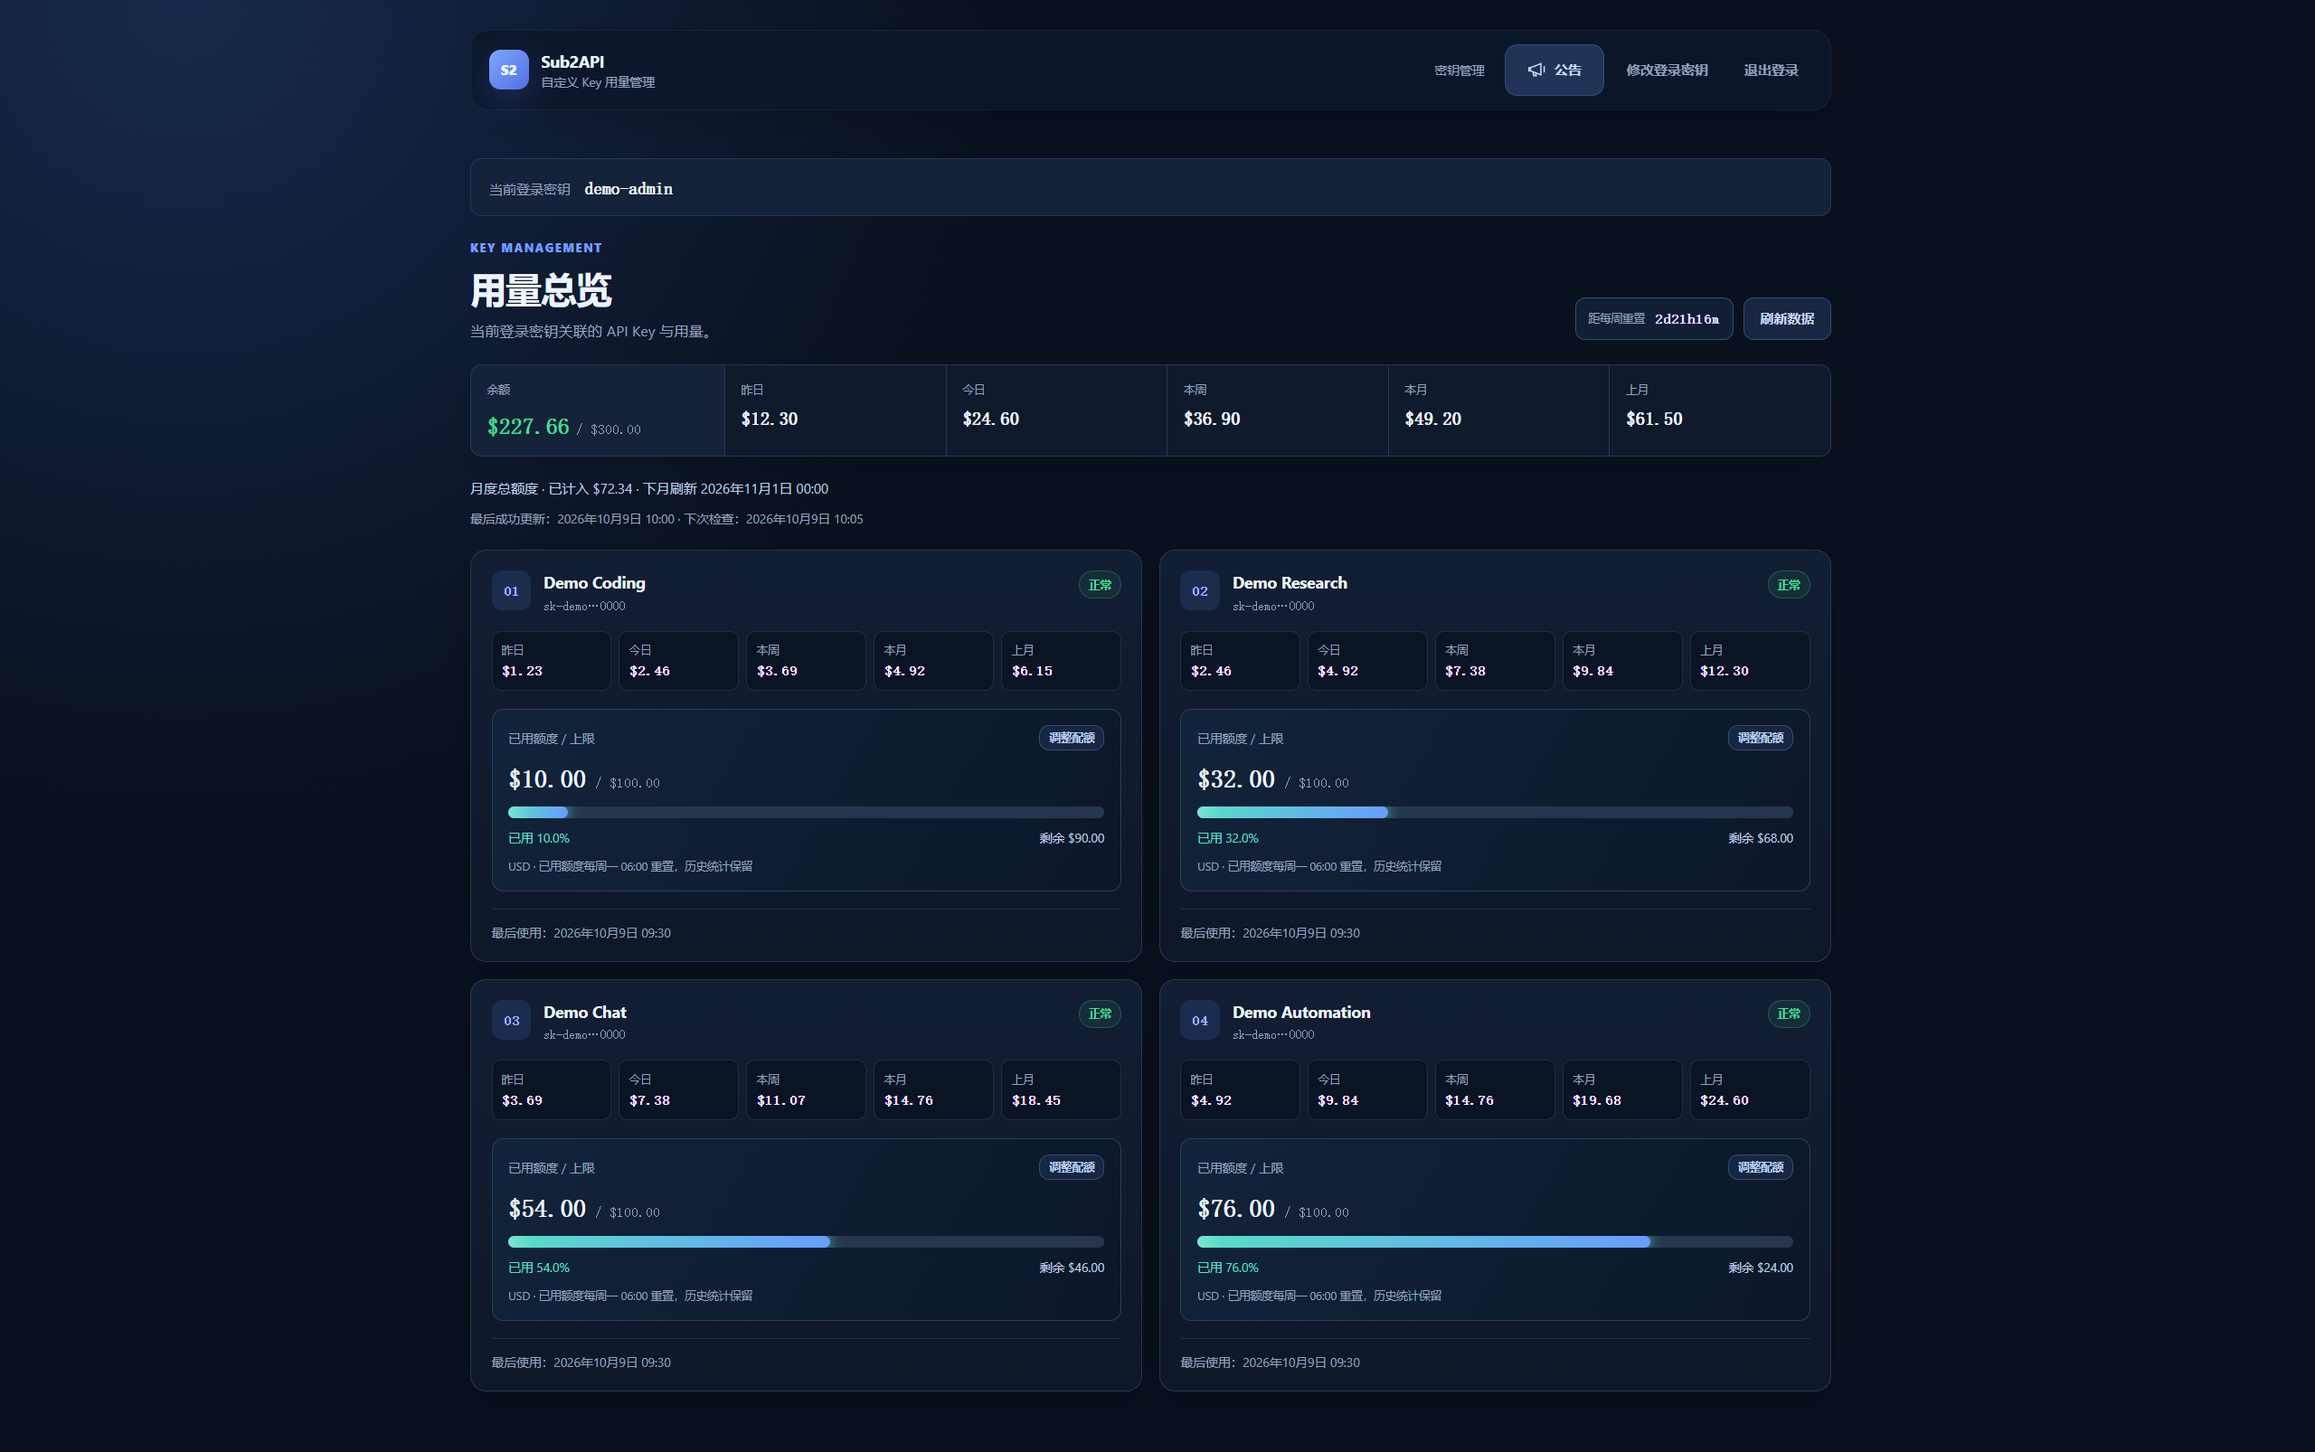
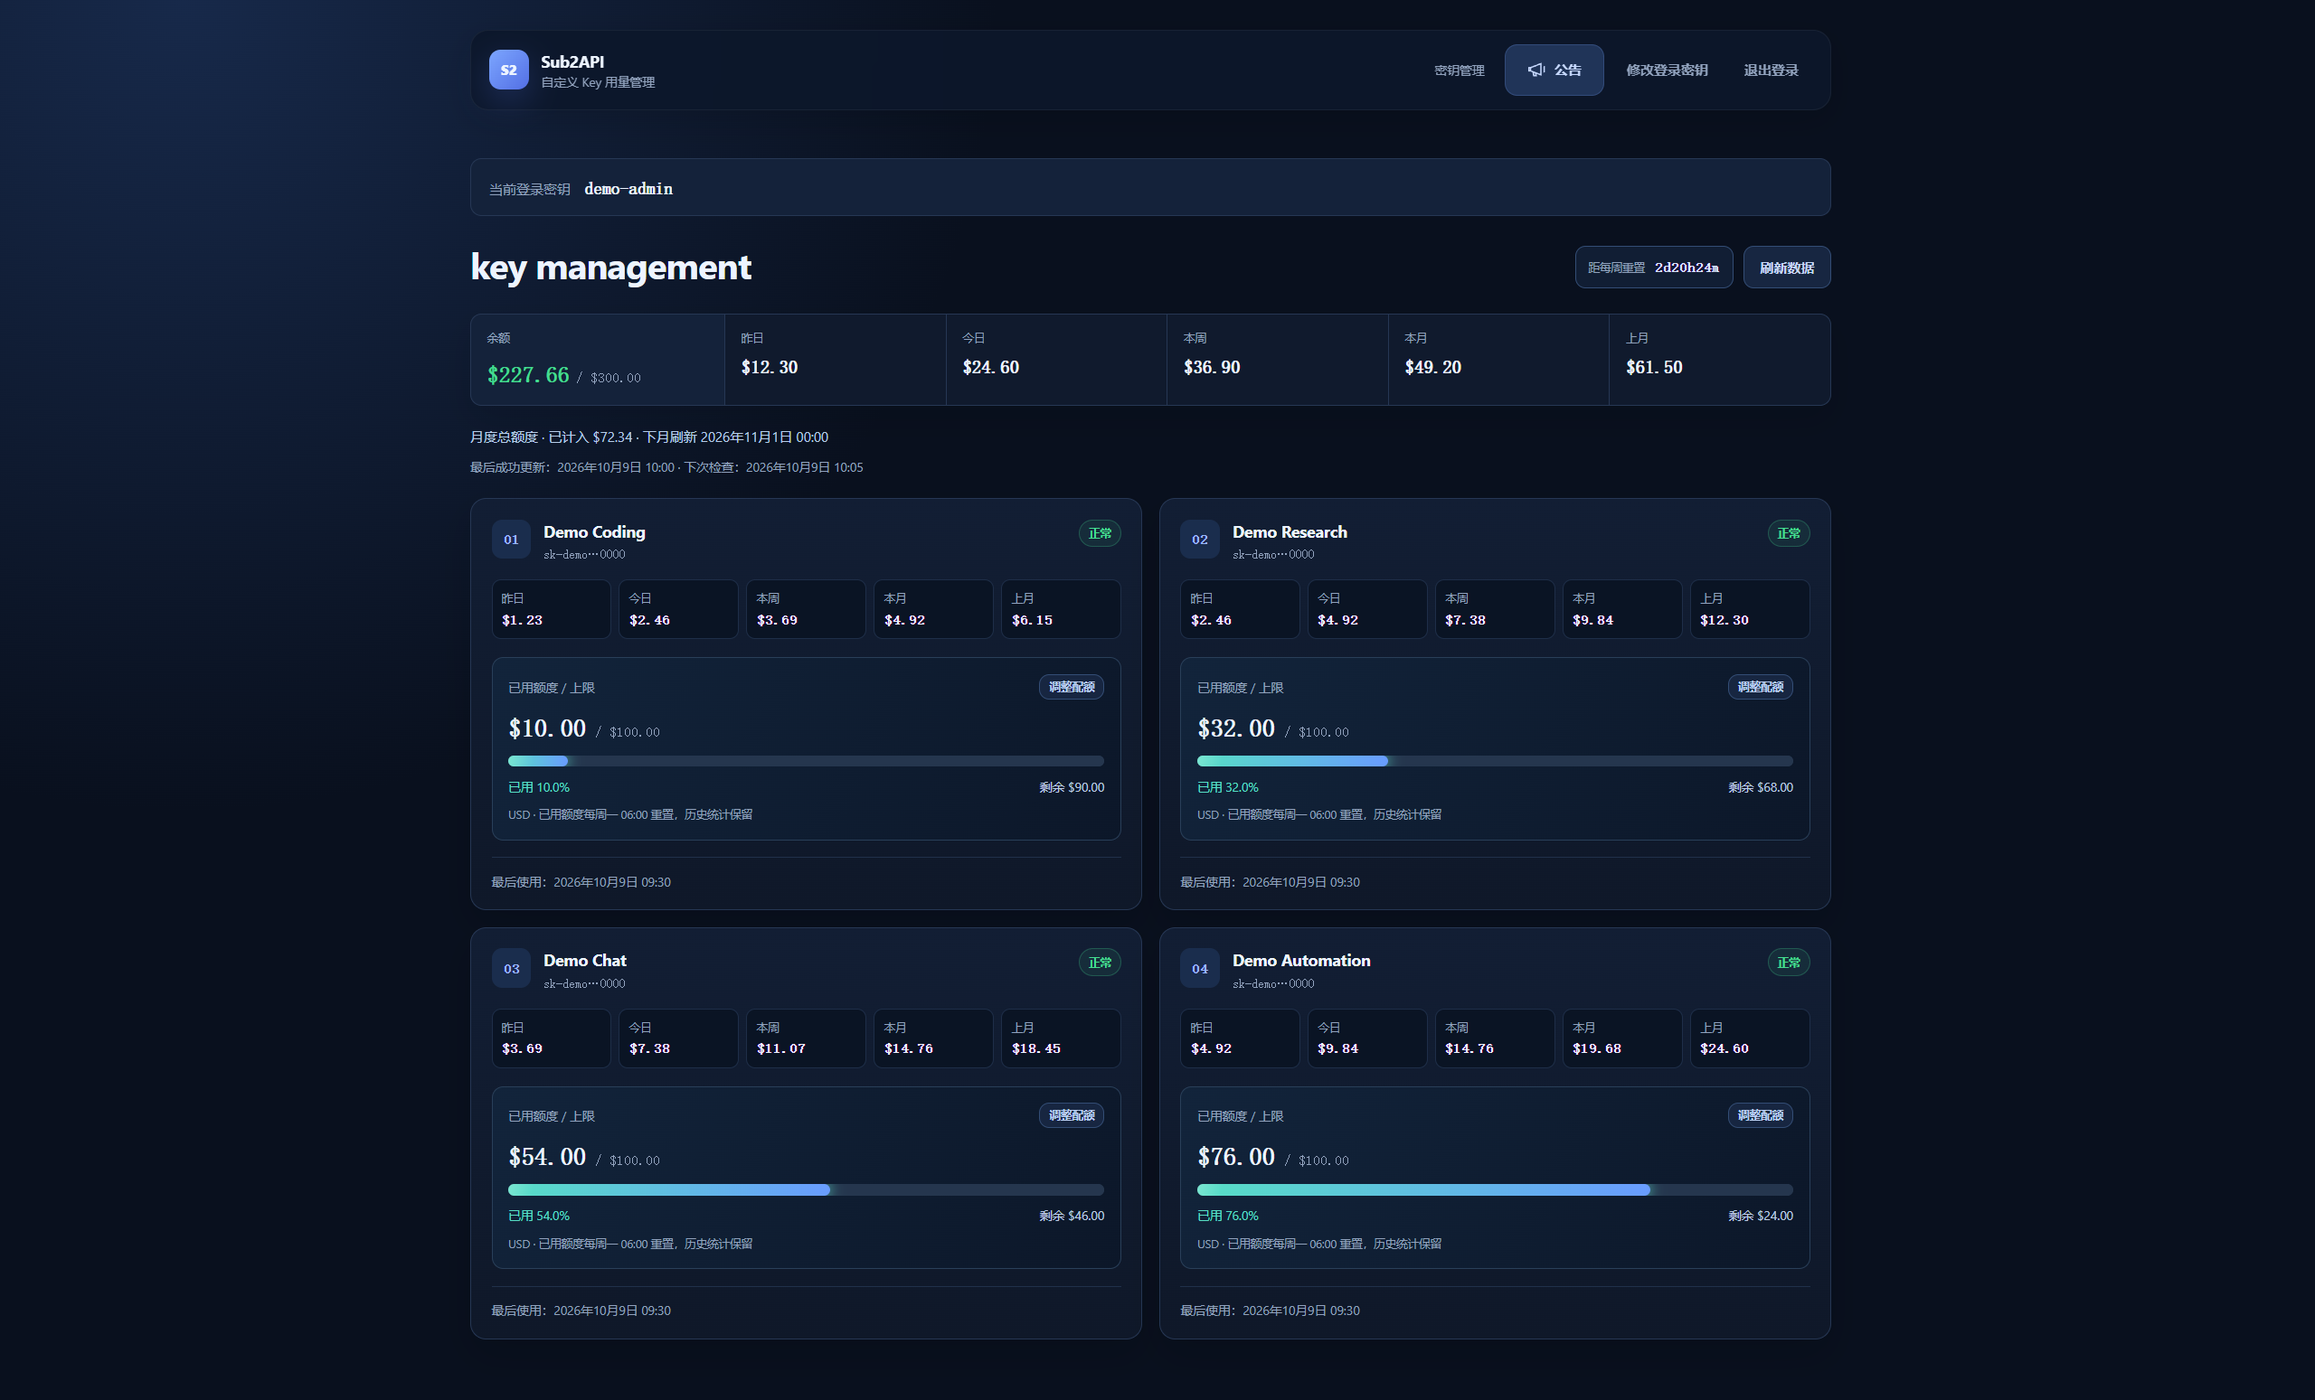
fix: simplify key management heading

diff --git a/public/index.html b/public/index.html
@@ -4,10 +4,10 @@
   <meta charset="UTF-8">
   <meta name="viewport" content="width=device-width,initial-scale=1">
   <title>Sub2API Key 用量管理</title>
-  <link rel="stylesheet" href="/styles.css?v=20261009-1">
-  <link rel="stylesheet" href="/overrides.css?v=20261009-1">
+  <link rel="stylesheet" href="/styles.css?v=20261009-2">
+  <link rel="stylesheet" href="/overrides.css?v=20261009-2">
   <script src="/vendor/anime.umd.min.js?v=4.5.0" defer></script>
-  <script src="/app.js?v=20261009-1" defer></script>
+  <script src="/app.js?v=20261009-2" defer></script>
 </head>
 <body>
   <div class="session-loading" id="sessionLoading" role="status"><div class="brand-mark">S2</div><span>正在加载…</span></div>
@@ -56,7 +56,7 @@
     <section class="access-current" id="currentAccess" aria-live="polite"></section>
 
     <section class="hero">
-      <div><p class="eyebrow">KEY MANAGEMENT</p><h1>用量总览</h1><p>当前登录密钥关联的 API Key 与用量。</p></div>
+      <div><h1>key management</h1></div>
       <div class="hero-actions"><div class="schedule-pill"><span>距每周重置</span><strong id="resetCountdown">--d--h--m</strong></div><button class="secondary" id="refreshButton">刷新数据</button><button class="primary hidden" id="openAddButton">＋ 添加自定义 Key</button></div>
     </section>
 

diff --git a/public/overrides.css b/public/overrides.css
@@ -8,6 +8,7 @@ html { scrollbar-gutter:stable; }
   html { font-size:clamp(20px,calc(12px + .3125vw),24px); }
 }
 .role-label { font-size:0.6875rem; color:var(--muted); }
+.hero h1 { margin-bottom:0; }
 .session-loading { min-height:100dvh; display:flex; flex-direction:column; align-items:center; justify-content:center; gap:1.125rem; color:var(--muted); font-size:0.75rem; }
 .login-screen { min-height:100dvh; background:radial-gradient(ellipse at 50% 28%,#304b7c26,transparent 65%); }
 .login-card { box-shadow:0 1.75rem 5.625rem #0006,0 0 0 1px #ffffff03; }

diff --git a/docs/PROJECT_HANDOFF.md b/docs/PROJECT_HANDOFF.md
@@ -6,8 +6,9 @@
 
 | 项目 | 状态 |
 | --- | --- |
-| 大屏适配 | 2026-10-09 用户确认保留 API Key 双列、加宽并同步放大方案。已完成流式内容区及阅读尺寸：2560×1440 对应 1560px 内容区 / 20px 根字号，3840×2160 对应 2200px / 24px；登录、公告、设置及七天预览一同适配，静态资源版本为 `20261009-1`。81 项测试、语法及差异检查通过；本地纯假数据浏览器检查 1080p、2K、4K、手机与 125% / 150% / 200% 缩放等效视口，无横向溢出、金额截断或脚本错误。1080p 与手机关键区域几何尺寸逐项与修改前一致；固定预览跨分辨率调整、公告收缩及减少动画模式通过。截图 `docs/screenshots/2026-10-09-large-screen-*.png`，方案和计划在 `docs/superpowers/`。本次代码及交接记录同步 GitHub main，尚未部署 NAS。 |
-| 本轮 NAS 核对 | 2026-10-09 Windows 主机此前尝试局域网及域名 SSH，均在登录前被关闭；随后在 Mac 上通过域名 SSH 实际复核成功。NAS 仍为 `4db3c6c`、容器 healthy，自 10-08 17:40:18 启动后未再重启；两个代理仍 exited。Mac 已拉取 GitHub main 的大屏适配提交 `15455e3`，该功能未部署 NAS；本轮未改生产配置或代码。 |
+| 大屏适配 | 2026-10-09 用户确认保留 API Key 双列、加宽并同步放大方案。已完成流式内容区及阅读尺寸：2560×1440 对应 1560px 内容区 / 20px 根字号，3840×2160 对应 2200px / 24px；登录、公告、设置及七天预览一同适配，静态资源版本为 `20261009-2`。81 项测试、语法及差异检查通过；本地纯假数据浏览器检查 1080p、2K、4K、手机与 125% / 150% / 200% 缩放等效视口，无横向溢出、金额截断或脚本错误。1080p 与手机关键区域几何尺寸逐项与修改前一致；固定预览跨分辨率调整、公告收缩及减少动画模式通过。截图 `docs/screenshots/2026-10-09-large-screen-*.png`，方案和计划在 `docs/superpowers/`。本次代码及交接记录同步 GitHub main，尚未部署 NAS。 |
+| 页面标题 | 2026-10-09 按用户要求将用量区域标题改为 `key management`，删除上方重复的英文小标题和下方显而易见的功能说明，清除标题多余底部间距。2K / 4K / 手机及两种角色假数据检查通过，更新对应截图；81 项测试、语法与差异检查通过。简洁标题偏好已写入 AGENTS.md，代码与记录同步 main，未部署。 |
+| 本轮 NAS 核对 | 2026-10-09 Windows 主机此前尝试局域网及域名 SSH，均在登录前被关闭；随后在 Mac 上通过域名 SSH 实际复核成功。NAS 仍为 `4db3c6c`、容器 healthy，自 10-08 17:40:18 启动后未再重启；两个代理仍 exited。Mac 已拉取 GitHub main 的大屏适配提交 `15455e3`，该功能未部署 NAS；本轮未改生产配置或代码。随后此 Windows 主机亦通过域名 SSH 只读确认相同标记及 running / healthy，未部署标题调整。 |
 | 额度保存排查 | 2026-10-09 用户确认在 NAS 正式页面把目标 MISE Key 从 50 调为 50.01，点击保存没有错误提示但看不到变化。09:27 只读上游核验真实额度已是 50.01，NAS 缓存仍是 50；另一个 Key 的上游额度/状态也与旧缓存不一致。MISE 09:19:20 成功、09:23:39 再次同步失败；三个账号均无 budget.blocked 或 paused，不能归因本地副本写保护、额度用尽或恢复规则。09:25 三轮 MISE 读取全部 200；09:26–09:27 用内存副本完整重放三个账号同步，包括体验账号分页明细，全部成功，全程阻止上游写入。纯假数据复现 `quota()` 写入成功后 `sync()` 失败仍正常返回旧缓存，解释保存生效但页面旧值；当次底层网络原因未被生产日志保存。09:30:07 NAS 自动同步成功、error=null，目标缓存已更新为 50.01；体验账号 09:30:05 同步成功，另一处额度/状态差异也消除。未重启、部署或再次修改真实额度；下一步用户刷新正式网页核验，后续代码修复应区分保存结果与刷新结果，并补充等待及底层错误记录。 |
 | 用量同步排查 | 2026-10-08 22:29 MISE 正式缓存已恢复成功同步，`lastSuccessAt=2026-10-08T14:29:47.132Z`、error=null，账号/Key/额度/公告设置核验保留。按用户要求从运行中 NAS 容器拉取 `/app` 和独立业务快照，在本地建立只读复刻；15 个源码/静态文件与 `4db3c6c` 全部一致，运行时同为 Node.js 24.19.0。原生请求版 `http://127.0.0.1:3111/` 与 curl 传输对照版 `http://127.0.0.1:3112/` 均成功同步 MISE 3 个 Key：登录、列表、每日用量接口均200，桌面/手机页面检查无脚本错误。本次未发现程序更新或接口不兼容；NAS 同时段只读接口亦成功，正常刷新随后恢复，但此前间歇失败根因仍未确证，不能直接归功停代理。两个代理 `qwrt`/`mihomo-lan-proxy` 继续按用户要求停用；生产代码/上游地址未改。临时副本 `/Users/sun/Documents/ChatGPT/FNNas/work/key-manager-local-replica-20261008` 继续运行，仅监听本机，禁用自动调度并阻止上游写入；源码、凭据、业务快照、截图仅在私有本地目录，不提交Git。恢复复核：管理器自17:40未再重启；两代理22:14停后仍失败过，22:26左右读取恢复，22:29是正常手动刷新成功。随后NAS主页3次200、重新登录/列表成功；能确定连接恢复，不能唯一归因停代理。其他两个账号仍旧缓存，本轮未刷新。下一步：用户查看本地与NAS页面；如再次失败，再依据具体连接记录排查网络。停代理对照 `/home/Sun/sub2api-key-manager-releases/proxy-stop-check-20261008-221430`，地址切换备份 `/home/Sun/sub2api-key-manager-backups/upstream-url-20261008-174007`。 |
 | 源码 | 私有仓库 `allin75/sub2api-key-manager`，以 `origin/main` 为同步源。两台电脑应各自克隆或拉取，不复制工作目录。 |
@@ -19,11 +20,13 @@
 | 回退资料 | 最新部署前备份在 `/home/Sun/sub2api-key-manager-backups/20260930-154120`：`.env`、`source-config.tar.gz`、`data.tar.gz`、原源码 `source/` 和旧镜像标识均保留。上传归档、部署脚本、构建/部署日志、状态校验摘要及其他容器对照记录在 `/home/Sun/sub2api-key-manager-releases/4db3c6c`，有 `deploy.ok` 标记。旧镜像额外保留为 `sub2api-key-manager:rollback-196cd6c-20260930`，更早备份与回退镜像未清理。 |
 | 验证 | `node --test` 79 项通过，逐文件语法检查与 `git diff --check` 通过。覆盖发布/删除权限、CSRF、账号隔离、确认幂等、删除与确认并发、重命名与重启持久化、作用域预算写入、失败保留草稿与重复提交保护、账号切换后的异步清理。本地假数据桌面 1440×1000、手机/窄屏 390×844 检查发布、实时接收、多条逐一确认、历史重看、删除同步和文本转义通过；确认后收缩逐帧宽度与入口横向变化 0px，图标持续淡入，无动画层残留，减少动画模式通过。新截图在 `docs/screenshots/2026-09-30-targeted-notice-*.png`。 |
 | 上线核验 | 新镜像健康，NAS 3100 端口返回与发布源码完全一致的页面、脚本、两份样式和本地动画库，页面缓存版本为 `20260930-5`；未登录 `/api/session` 和 `/api/notices` 均为 401，运行日志无请求或调度错误。原 `.env` 未变，原数据卷 `sub2api-key-manager_key-manager-data` 未替换；与部署前备份核对，3 个账号的身份、登录密钥、历史密钥、12 个 Key 与归属、额度类型与上限、刷新开关、奖励定义及公告确认记录保持一致，原定向公告数为 0，未发送生产测试公告。其他 16 个容器部署前后及再次核验的 ID、启动时间、重启次数与运行状态完全一致。未运行整机重启、Docker 服务重启、其他项目 Compose 或任何卷删除命令。 |
-| 下一步 | 另一台电脑拉取 GitHub main 查看大屏适配及截图。恢复 SSH 连接并取得部署指令后，先核对 NAS 实际提交与状态，再按原定向更新流程备份、部署并验证；源码推送不代表上线。本轮浏览器测试服务已关闭，假数据检查材料保留于本机忽略目录 `.playwright-mcp/`。10-08 的本地复刻状态需在原电脑另行核对。 |
+| 下一步 | 另一台电脑拉取 GitHub main 查看大屏适配及截图。取得部署指令后，再核对 NAS 实际提交与状态，再按原定向更新流程备份、部署并验证；源码推送不代表上线。本轮浏览器测试服务已关闭，假数据检查材料保留于本机忽略目录 `.playwright-mcp/`。10-08 的本地复刻状态需在原电脑另行核对。 |
 
 这份文档是时间点记录。`v1.2.0` 的固定公告交互和卡片定向公告均已部署并核验 NAS，实际标记为 `4db3c6c`，容器健康。部署后的文档提交无需重新部署；今后仍需核对实际标记，不能仅凭 GitHub 最新源码推断部署状态。
 
 ## 已完成记录
+
+- 2026-10-09：按用户反馈精简标题为 `key management`，删除重复英文眉题与标题下说明，记录简洁文案偏好；假数据 2K/4K/手机、普通管理员/超级管理员标题与布局检查通过，截图更新，81 项测试及语法/差异检查通过。域名 SSH 恢复后只读确认 NAS 标记仍为 `4db3c6c`、容器 running / healthy；提交并推送代码和交接记录，未部署。
 
 - 2026-10-09（Mac）：拉取 GitHub main 的 `15455e3`，域名 SSH 实测可用，NAS 仍运行 `4db3c6c` 且 healthy，两个代理继续停用。针对用户“正式页面保存配额无提示、数值未变”核对：目标上游配额已为用户确认的 50.01，缓存仍为 50，MISE 在 09:19 成功后 09:23 同步失败。三轮 MISE 只读请求和三个账号完整内存同步重放均成功，无 401/403；纯假数据复现保存成功后的同步异常被吞掉、正常返回旧缓存。未修改真实 Key/额度、生产配置或部署，本地复刻仍保留只读保护。随后 NAS 自动调度在 09:30:05/09:30:07 完成体验账号/MISE 同步，错误清除，目标缓存已更新为 50.01；纯假数据复现通过。当次底层网络原因未被日志保存，保留这一限制；下一步用户刷新正式页面核验。
 

diff --git a/AGENTS.md b/AGENTS.md
@@ -29,6 +29,8 @@ Use ESM JavaScript, two-space indentation, semicolons, and single quotes. Prefer
 
 Keep UI state in `public/app.js`; render dynamic text with `escapeHtml`. Use scoped CSS names such as `quota-warning`, never generic state names like `warning` that can collide with shared styles. There is no formatter or linter configured; run `node --check src/*.js public/app.js` before committing UI or server changes.
 
+Use concise UI headings. Avoid duplicate eyebrow titles and helper text that only explains an obvious feature.
+
 ## Testing Guidelines
 
 Add focused tests for new behavior. Budget changes should cover boundary values, cross-month behavior, retry paths, and key status ownership. Use mock Sub2API behavior in `test/http.test.js` and `test/budget.test.js`; never point tests at the production account or disable real keys.

diff --git a/CHANGELOG.md b/CHANGELOG.md
@@ -2,6 +2,8 @@
 
 ## Unreleased
 
+- 用量区域标题简化为 `key management`，移除重复英文小标题及标题下的功能说明。
+
 - 适配 2K / 4K 大屏：随浏览器可用宽度渐进增大内容区、字号、间距及控件；2560px 视口内容区为 1560px，3840px 为 2200px。API Key 保持双列，登录、公告及设置弹窗同步放大；七天用量预览宽度随阅读尺寸调整，空间不足时继续下方展开。兼容系统缩放和窗口调整，1080p 与手机默认尺寸保持一致。
 
 ## 1.2.0 - 2026-09-30
